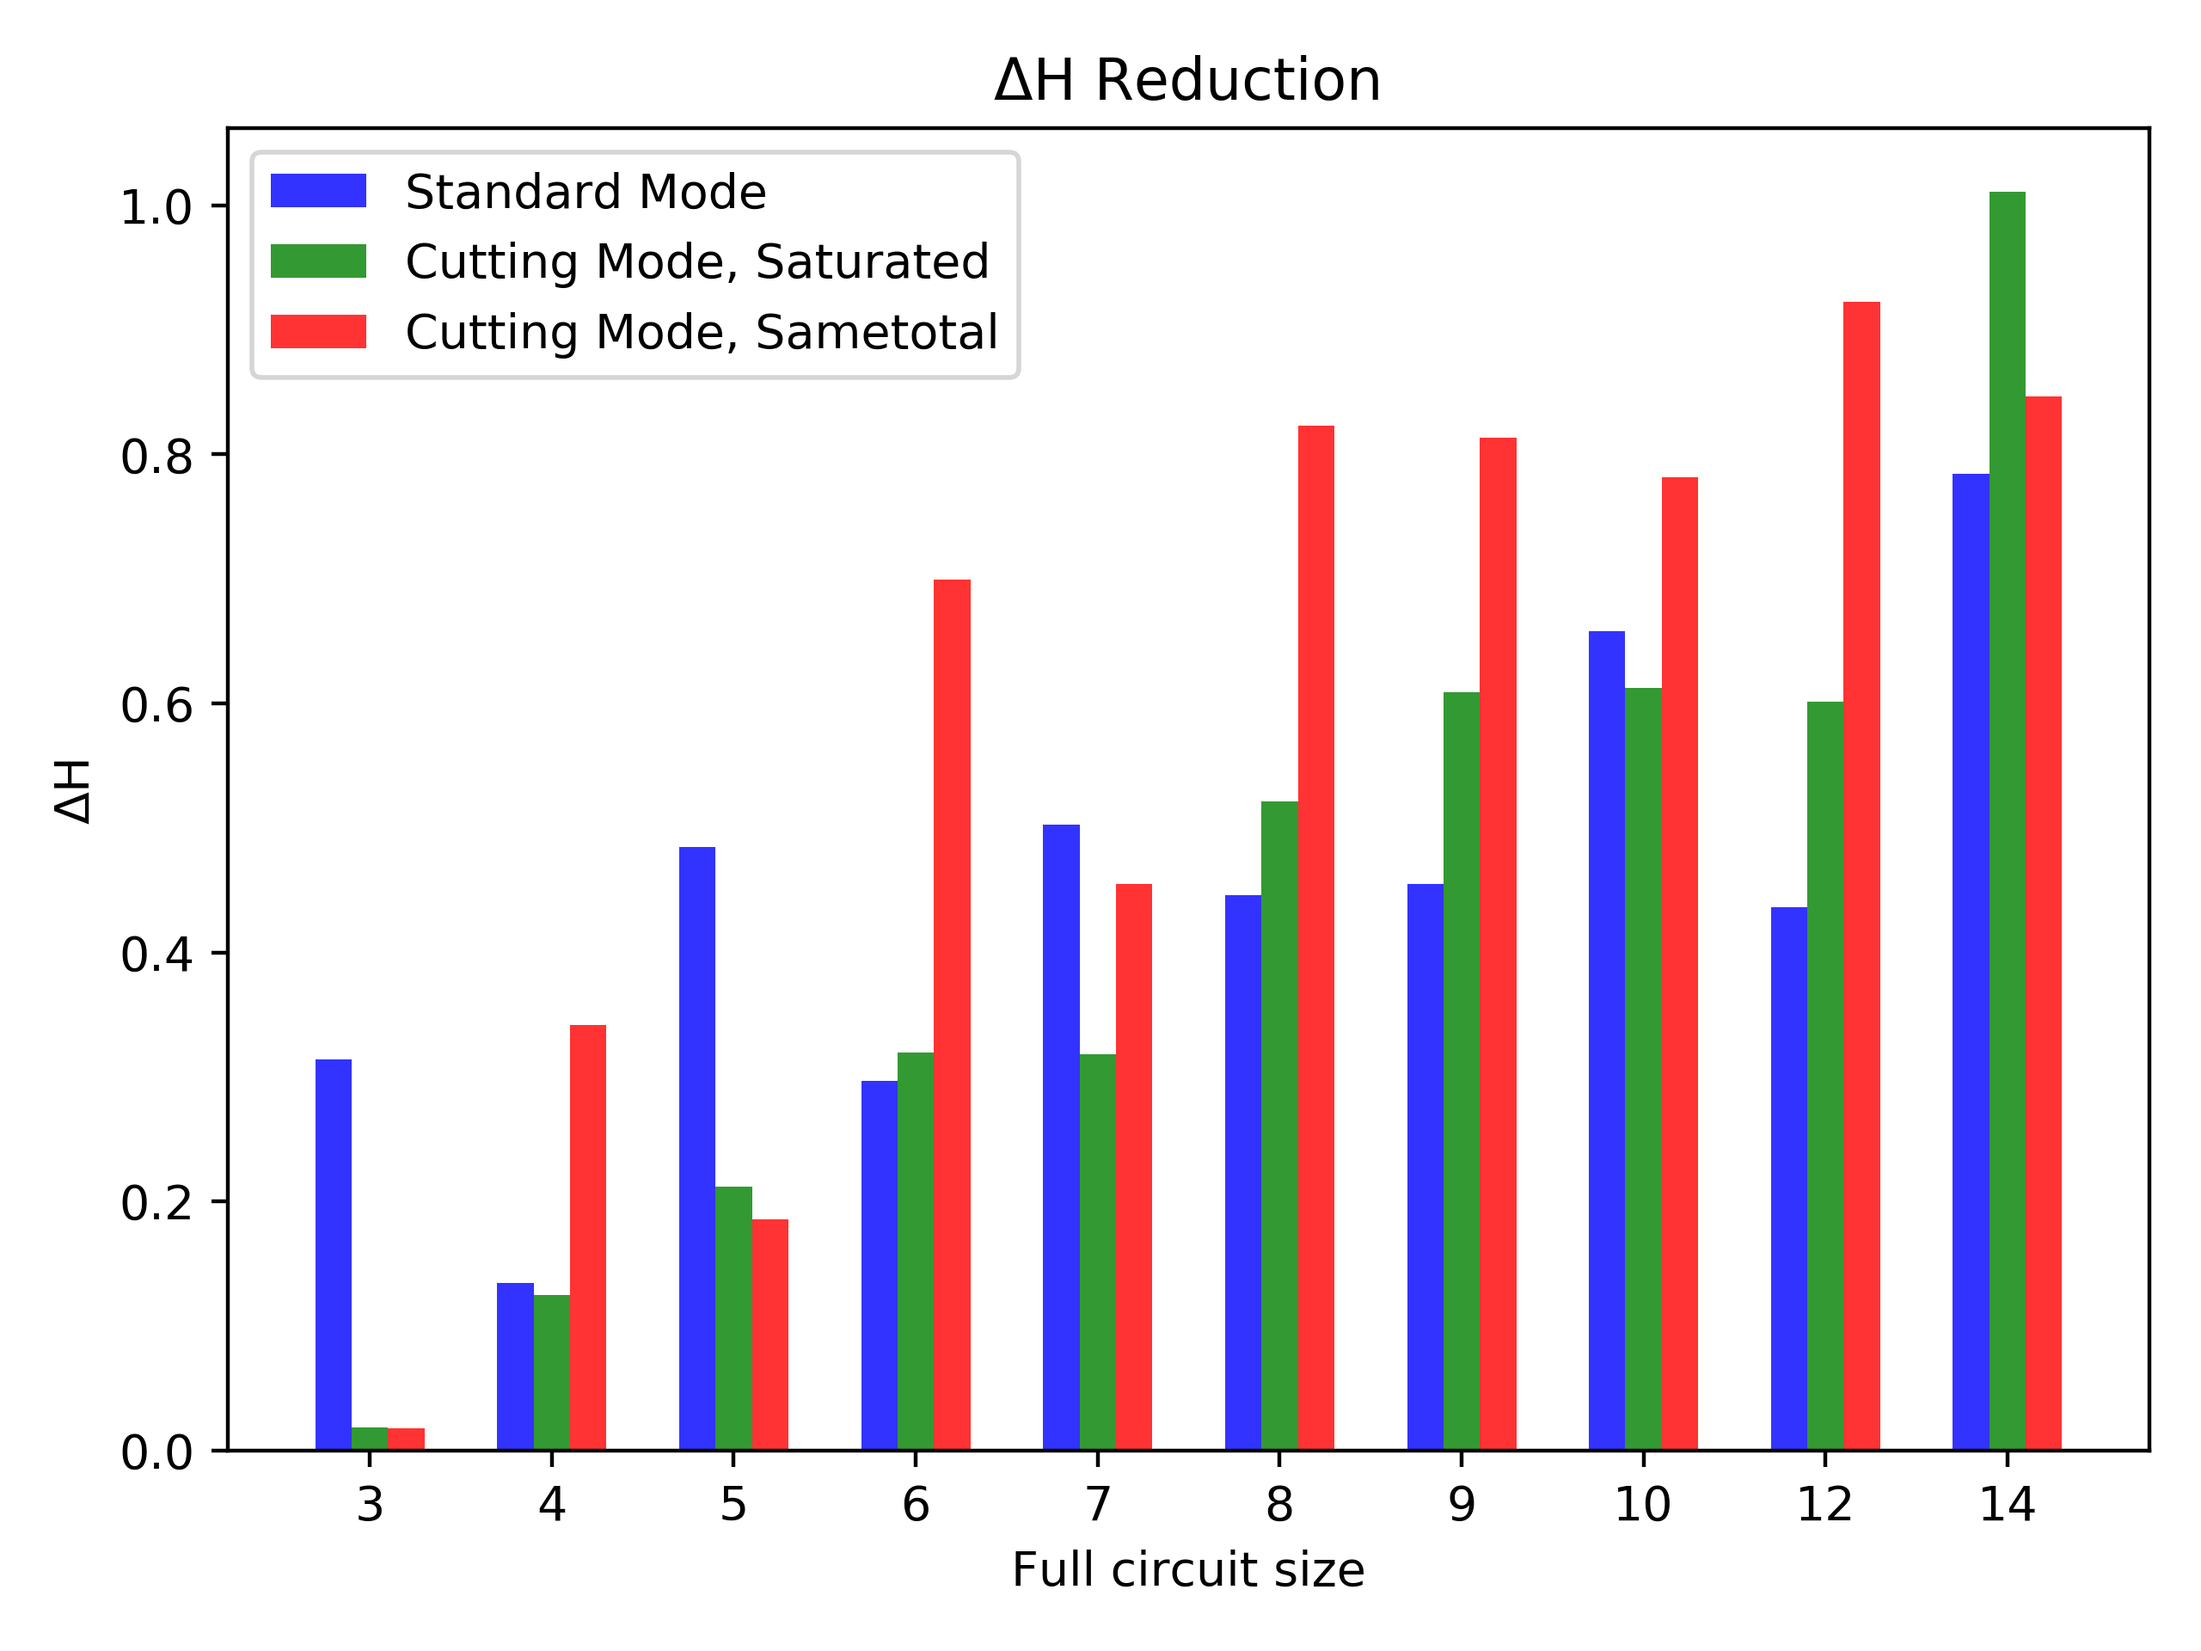
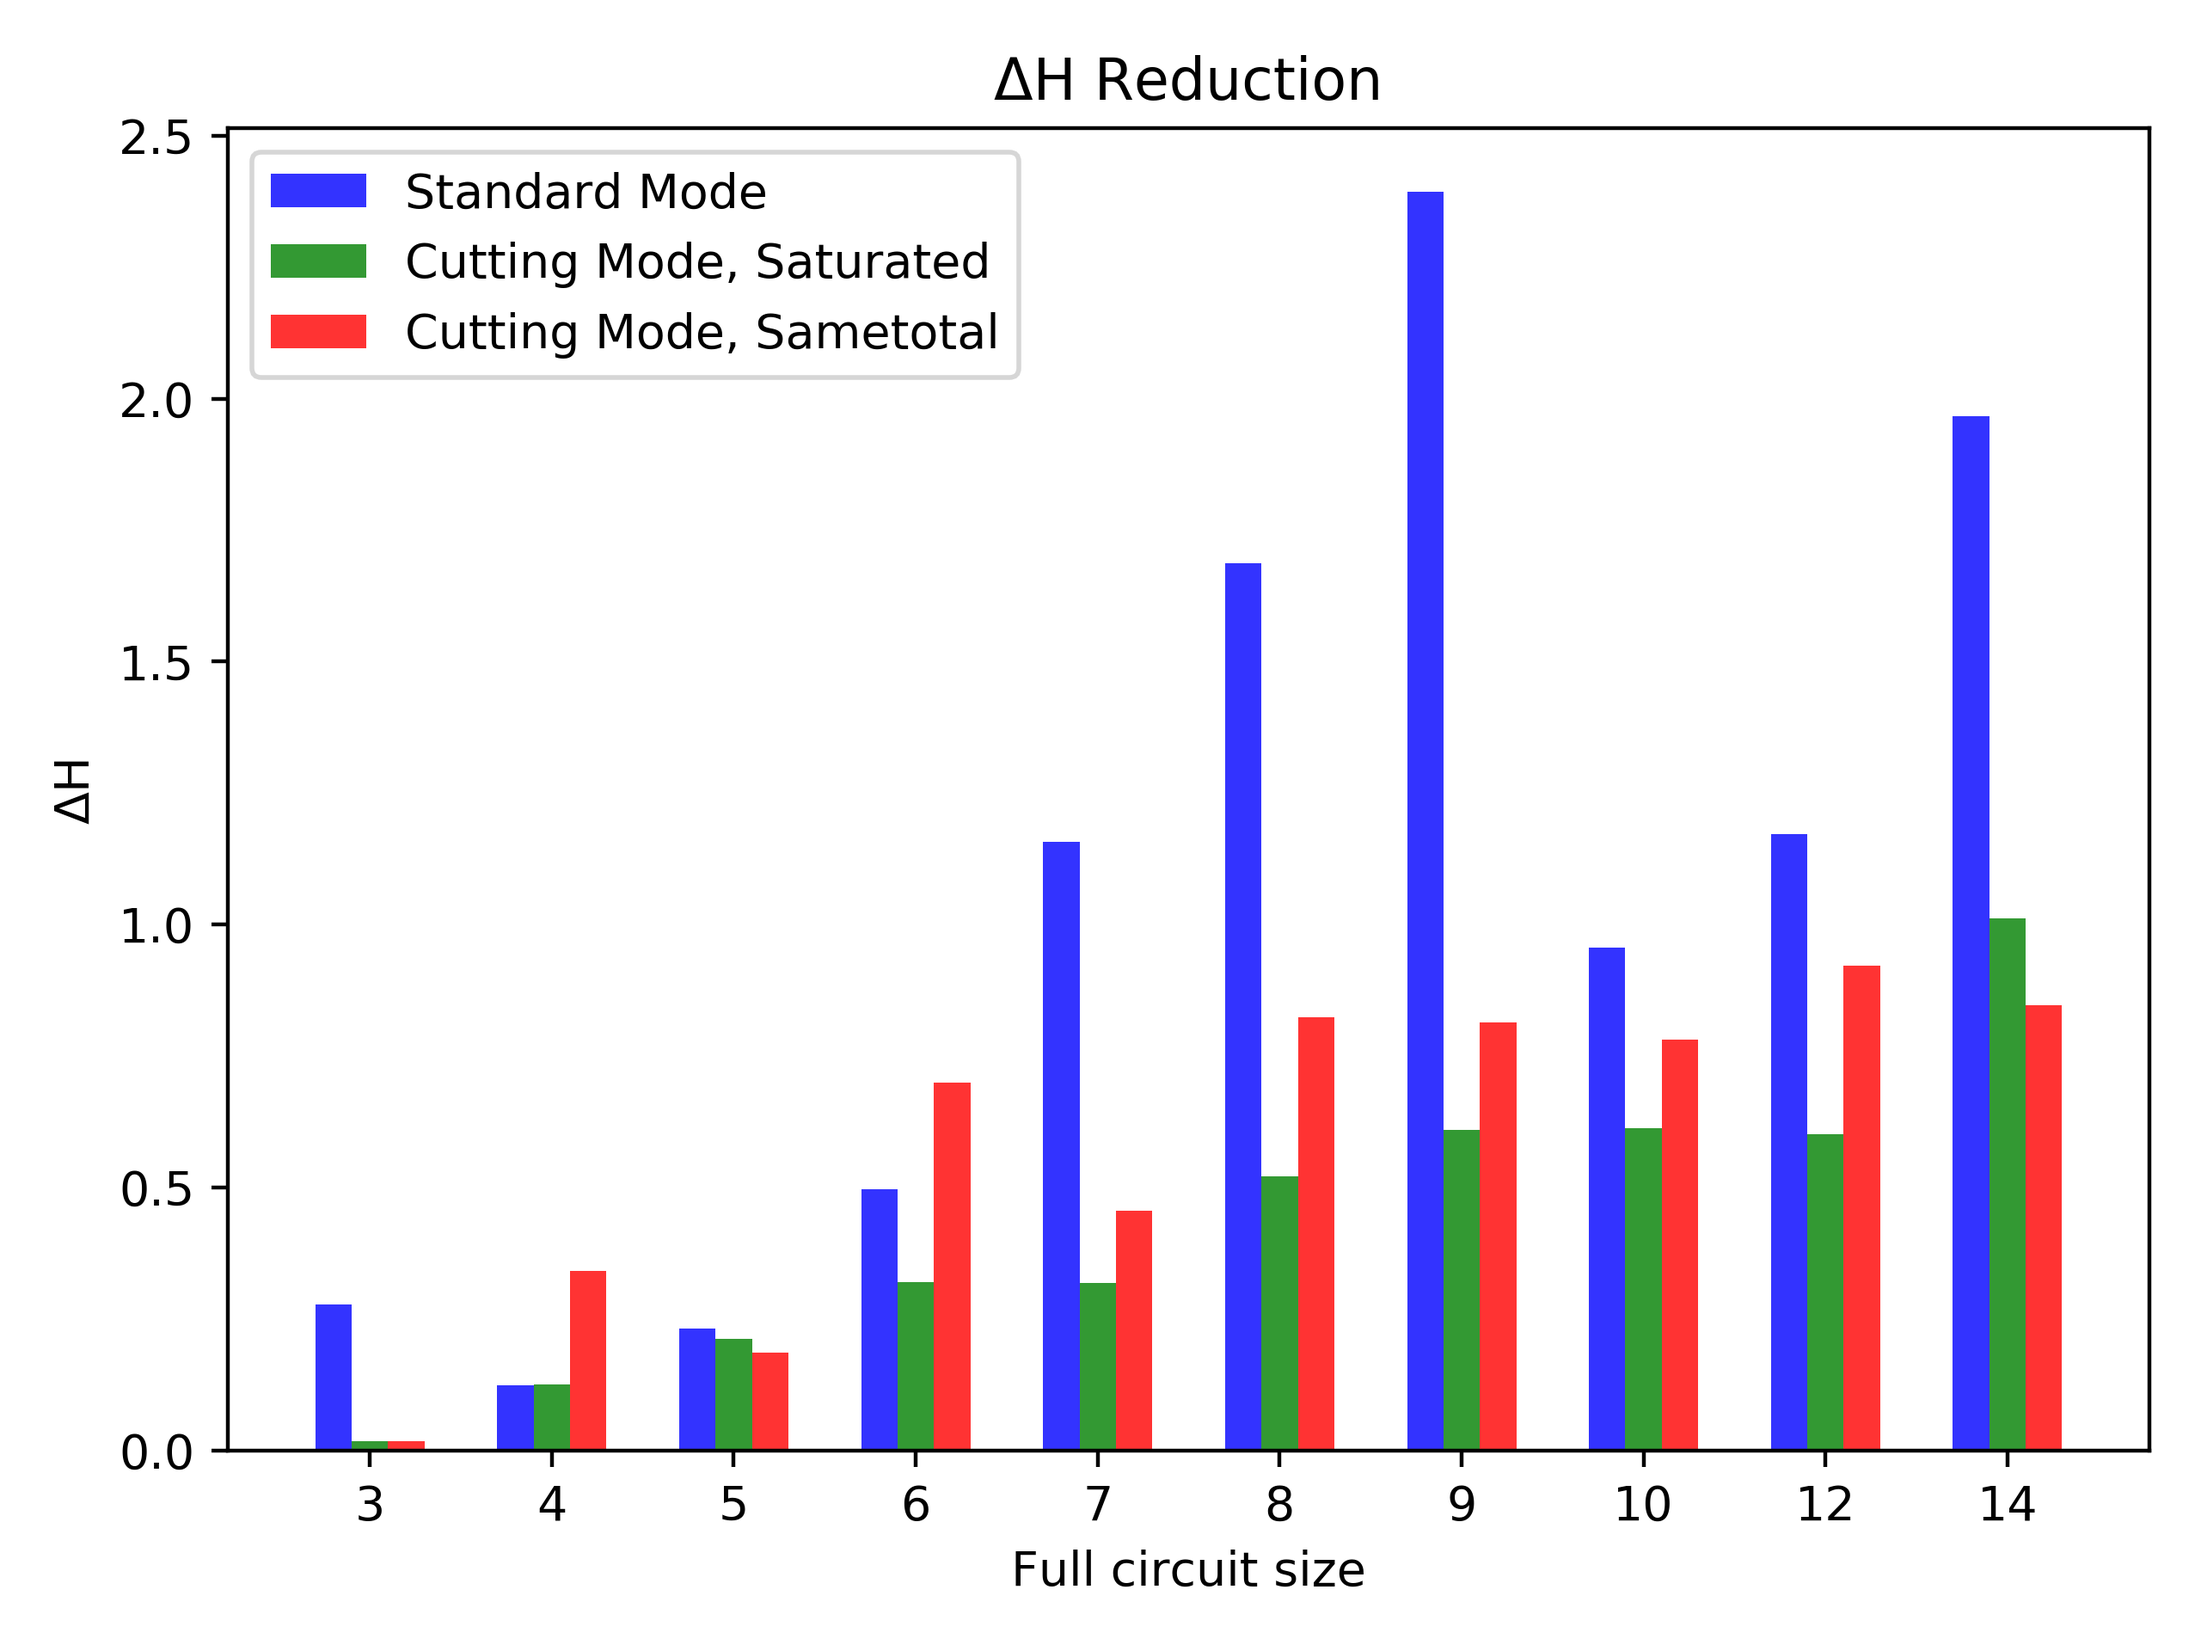
debugged plotter

diff --git a/mitigation/plot.py b/mitigation/plot.py
@@ -234,14 +234,14 @@ def plot_fid_bar(saturated_best_cc,sametotal_best_cc,circuit_type,figname):
     for fc_size in all_fc_size:
         has_std = False
         if fc_size in saturated_best_cc:
-            std.append(saturated_best_cc[fc_size]['qasm_noise_ce'] if circuit_type=='supremacy' else saturated_best_cc[fc_size]['qasm_noise_fid'])
+            std.append(saturated_best_cc[fc_size]['hw_ce'] if circuit_type=='supremacy' else saturated_best_cc[fc_size]['hw_fid'])
             has_std = True
             saturated_cutting.append(saturated_best_cc[fc_size]['cutting_ce'] if circuit_type=='supremacy' else saturated_best_cc[fc_size]['cutting_fid'])
         else:
             saturated_cutting.append(0)
         if fc_size in sametotal_best_cc:
             if not has_std:
-                std.append(sametotal_best_cc[fc_size]['qasm_noise_ce'] if circuit_type=='supremacy' else sametotal_best_cc[fc_size]['qasm_noise_fid'])
+                std.append(sametotal_best_cc[fc_size]['hw_ce'] if circuit_type=='supremacy' else sametotal_best_cc[fc_size]['hw_fid'])
             sametotal_cutting.append(sametotal_best_cc[fc_size]['cutting_ce'] if circuit_type=='supremacy' else sametotal_best_cc[fc_size]['cutting_fid'])
         else:
             sametotal_cutting.append(0)
@@ -311,7 +311,7 @@ def read_data(filename):
         obs= plotter_input[case]['evaluations']['cutting'])
         ce_percent_change = 100*(hw_ce - cutting_ce)/(hw_ce - ground_truth_ce)
         assert ce_percent_change <= 100+1e-10 and ce_percent_change == plotter_input[case]['ce_percent_reduction']
-        plotter_input[case]['ce_comparisons'] = (qasm_noise_ce-ground_truth_ce,cutting_ce-ground_truth_ce)
+        plotter_input[case]['ce_comparisons'] = (hw_ce-ground_truth_ce,cutting_ce-ground_truth_ce)
 
         ground_truth_fid = fidelity(target=plotter_input[case]['evaluations']['sv_noiseless'],
         obs= plotter_input[case]['evaluations']['sv_noiseless'])
@@ -327,7 +327,7 @@ def read_data(filename):
         if circuit_type == 'bv' or circuit_type=='hwea':
             assert fid_percent_change == plotter_input[case]['fid_percent_improvement']
             assert abs(ground_truth_fid-1)<1e-10 and abs(qasm_fid-1)<1e-10 and qasm_noise_fid<=1 and qasm_noise_fid<=1 and cutting_fid<=1
-        plotter_input[case]['fid_comparisons'] = (qasm_noise_fid,cutting_fid)
+        plotter_input[case]['fid_comparisons'] = (hw_fid,cutting_fid)
 
         print('case {}: ce percentage reduction = {:.3f}, fidelity improvement = {:.3f}, reconstruction time: {:.3e}'.format(case,ce_percent_change,fid_percent_change,plotter_input[case]['uniter_time']))
     print('*'*50)
@@ -337,15 +337,15 @@ def read_data(filename):
         ce_percent = plotter_input[case]['ce_percent_reduction']
         fid_percent = plotter_input[case]['fid_percent_improvement']
         uniter_time = plotter_input[case]['uniter_time']
-        qasm_noise_fid, cutting_fid = plotter_input[case]['fid_comparisons']
-        qasm_noise_ce, cutting_ce = plotter_input[case]['ce_comparisons']
+        hw_fid, cutting_fid = plotter_input[case]['fid_comparisons']
+        hw_ce, cutting_ce = plotter_input[case]['ce_comparisons']
         hw, fc = case
         if circuit_type == 'supremacy':
             if (fc in best_cc and ce_percent>best_cc[fc]['ce_percent']) or (fc not in best_cc):
-                best_cc[fc] = {'ce_percent':ce_percent,'uniter_time':uniter_time,'best_case':case,'qasm_noise_ce':qasm_noise_ce,'cutting_ce':cutting_ce}
+                best_cc[fc] = {'ce_percent':ce_percent,'uniter_time':uniter_time,'best_case':case,'hw_ce':hw_ce,'cutting_ce':cutting_ce}
         elif circuit_type == 'bv' or circuit_type=='hwea':
             if (fc in best_cc and fid_percent>best_cc[fc]['fid_percent']) or (fc not in best_cc):
-                best_cc[fc] = {'fid_percent':fid_percent,'uniter_time':uniter_time,'best_case':case,'qasm_noise_fid':qasm_noise_fid,'cutting_fid':cutting_fid}
+                best_cc[fc] = {'fid_percent':fid_percent,'uniter_time':uniter_time,'best_case':case,'hw_fid':hw_fid,'cutting_fid':cutting_fid}
         else:
             raise Exception('Illegal circuit type:',circuit_type)
     [print(best_cc[fc]) for fc in best_cc]
@@ -393,5 +393,7 @@ if __name__ == '__main__':
     else:
         evaluation_header = None
     figname = '{}/{}_{}_improvement.png'.format(dirname,evaluation_header,args.device_name)
+    print(saturated_best_cc)
+    print(sametotal_best_cc)
     plot_fid_bar(saturated_best_cc=saturated_best_cc, sametotal_best_cc=sametotal_best_cc,circuit_type=args.circuit_type,figname=figname)
     print('-'*100)
